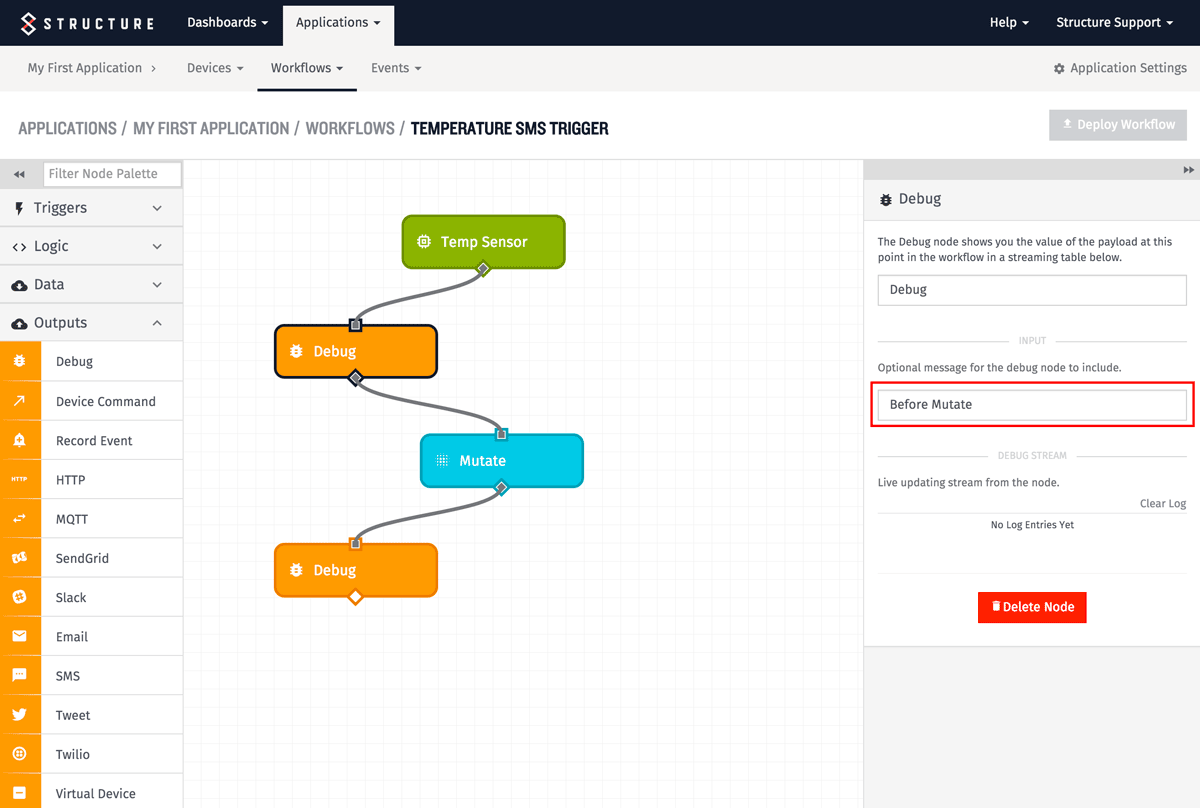
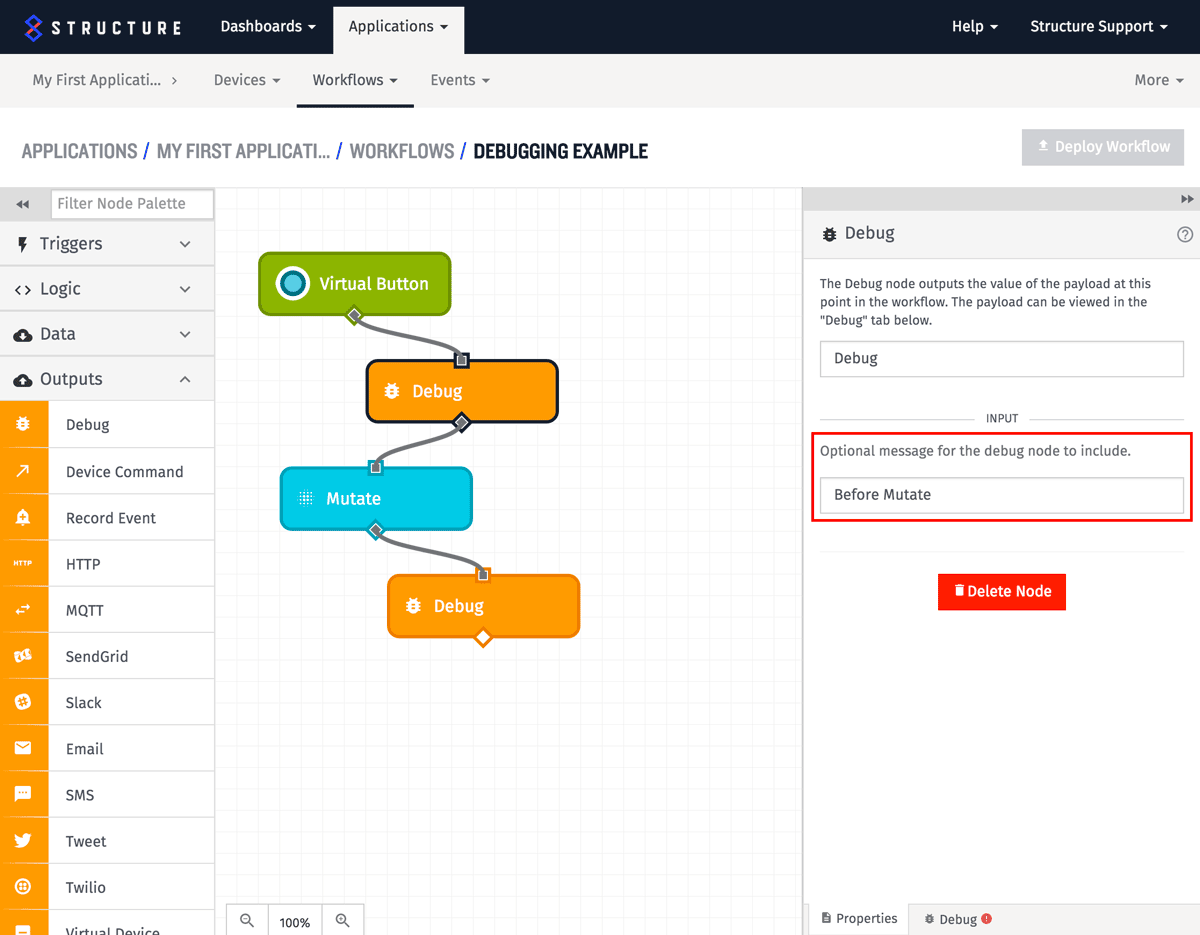
update docs for debug node

diff --git a/docs/workflows/outputs/debug.md b/docs/workflows/outputs/debug.md
@@ -12,16 +12,6 @@ The debug node is extremely simple to configure - its only property is an option
 
 ## Live Stream
 
-When a workflow runs through a debug node, the node live streams the current payload to the debug node panel.  As new payloads arrive, they will briefly glow green to indicate their arrival:
-
-![Debug Node Before Mutate Stream](/images/workflows/outputs/debug-node-before-mutate-stream.png "Debug Node Before Mutate Stream")
-
-Multiple debug nodes in a workflow work in concert - clicking on each debug node will show the particular payloads streaming through that node.  For instance, here are the payloads streaming through the second debug node in the above workflow:
-
-![Debug Node After Mutate Stream](/images/workflows/outputs/debug-node-after-mutate-stream.png "Debug Node After Mutate Stream")
-
-The "After Mutate" debug node shows different payloads than the "Before Mutate" debug node, because the mutate node has modified the payload (the mutate node is configured to remove the `tempC` field and rename the `tempF` field to `temperature`).
-
-It is also possible to see the live stream of all debug nodes in the workflow at once - this stream of debug information is available on the main workflow properties panel, under "Debug & Error Stream":
+When a workflow runs through a debug node, the node live streams the current payload to the debug tab of the properties panel.  As new payloads arrive, they will appear expanded at the top of the list. Multiple debug nodes in a workflow work in concert, so you can see the payload at various stages in the workflow.  For instance, here are the payloads from both debug nodes in the above workflow:
 
 ![Debug Node Workflow Stream](/images/workflows/outputs/debug-node-workflow-stream.png "Debug Node Workflow Stream")
